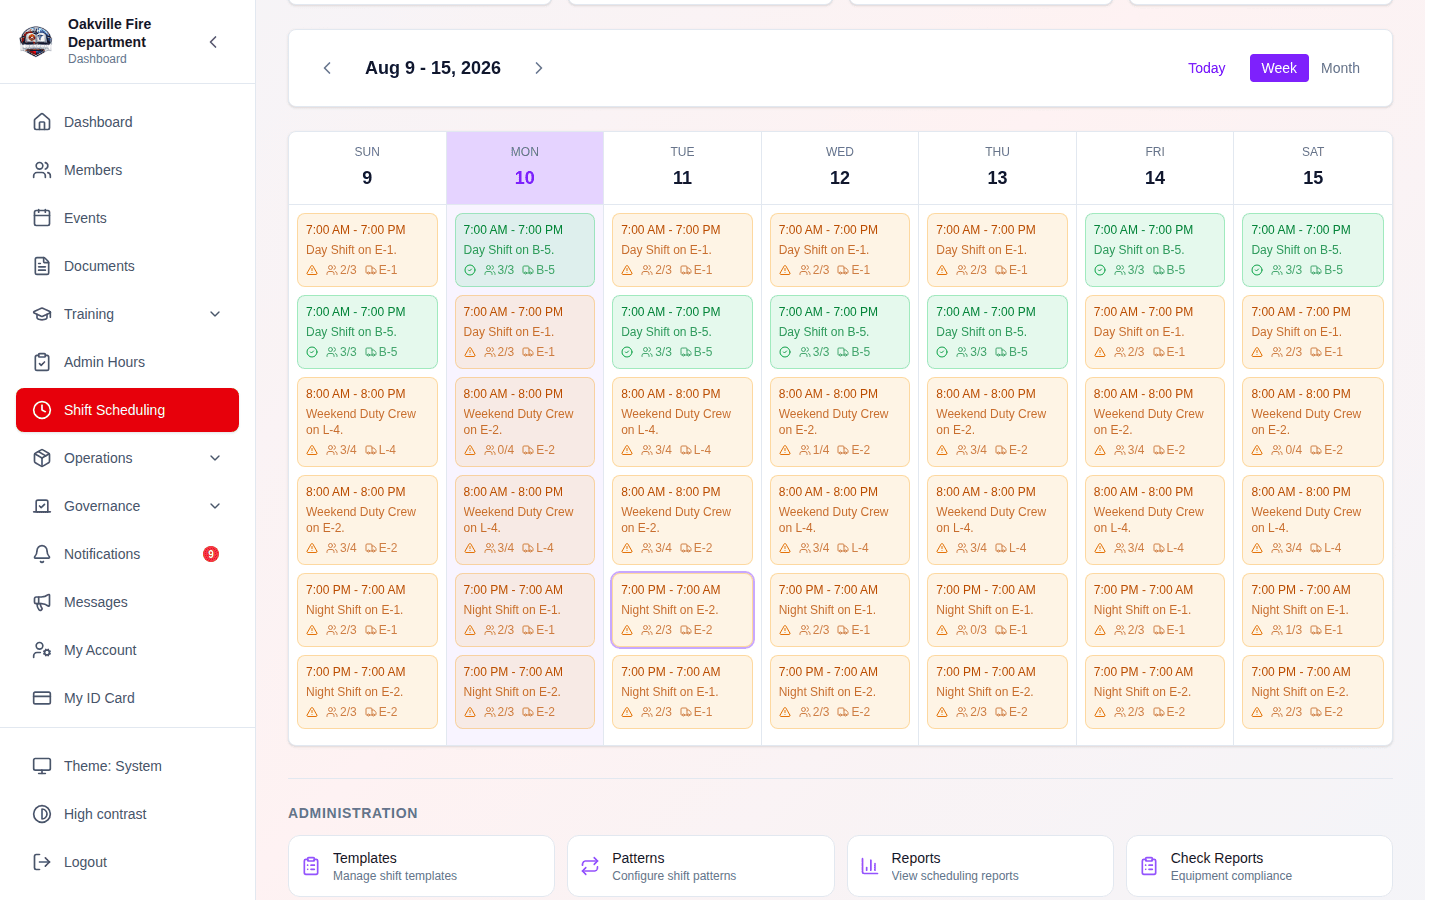
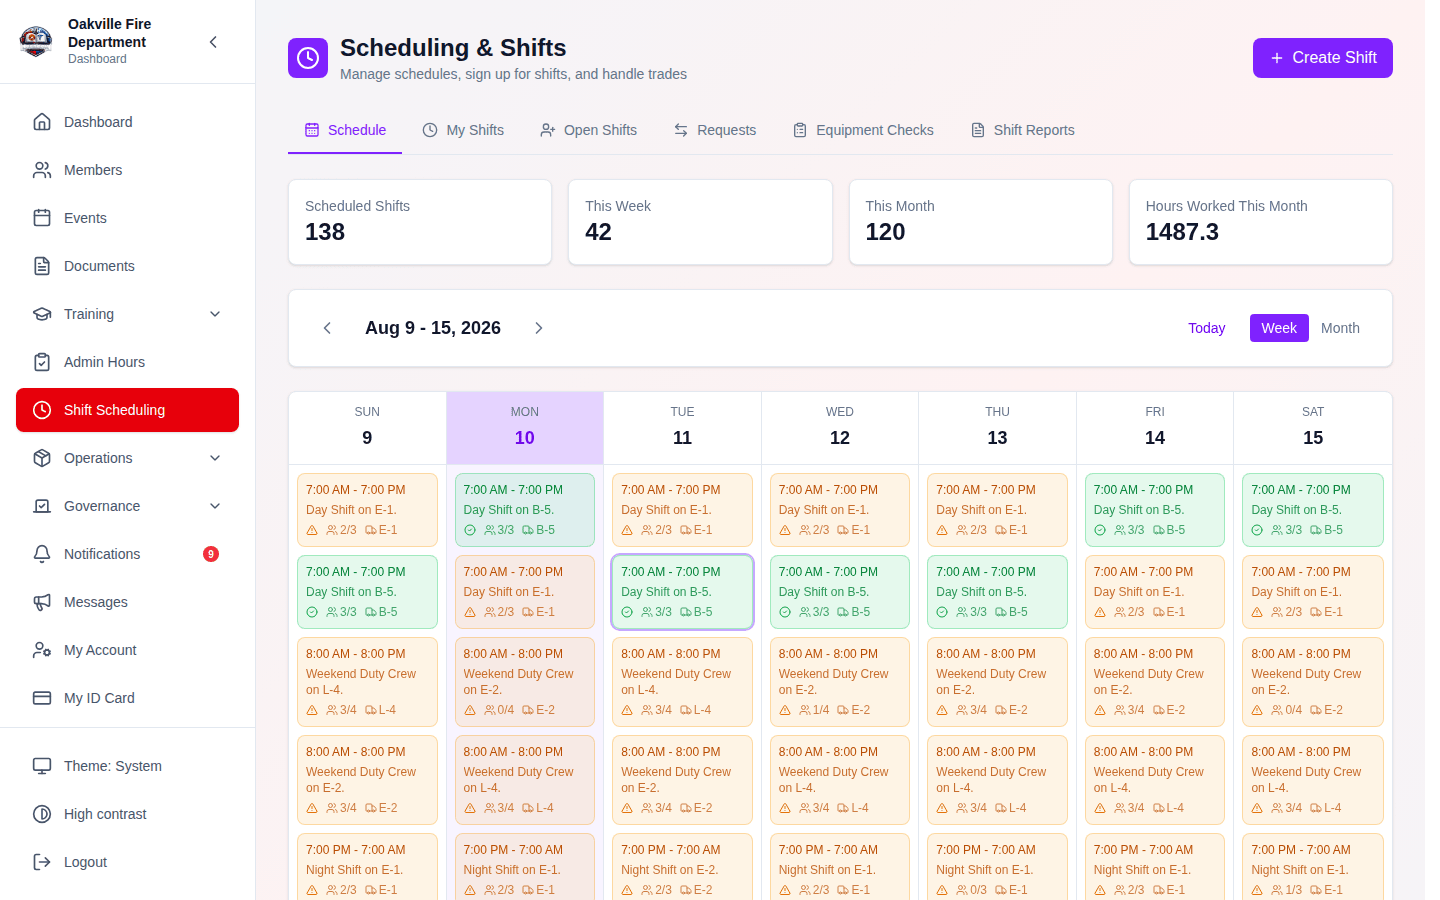
Seed shift check-in/out records; the scheduling header no longer reads 0 hours
Nobody had ever worked a seeded shift, so "Hours Worked This Month" on the
scheduling page read 0 beside a calendar of 120 shifts, and every attendance
and completion screen was empty. The twelve attendance rows that did exist
carried NULL timestamps and no duration — worse than none, since the API
computes duration from the two times, so those rows counted as attendance
while contributing nothing.

Past shifts now have their crew checked in and out, a few minutes either side
of the scheduled times so the durations are not identical to the minute. Only
shifts that have already ended are touched: checking somebody out of a shift
still in progress would be a lie, and the in-progress state is what several
other screenshots are about. The guard is keyed on a *usable* row rather than
any row, so the timestamp-less ones do not mask the gap forever.

161 records, 1,487 hours this month. 03-55-staffing-status-cards is re-taken
with the stat row back in frame — it had been scrolled out specifically to
keep the zero out of shot, and that is no longer necessary.

Claude-Session: https://claude.ai/code/session_01MR3YDBTkhiX8tzyQovuUKc

diff --git a/scripts/screenshots/seed_demo_data.py b/scripts/screenshots/seed_demo_data.py
@@ -1628,12 +1628,75 @@ class Seeder:
                         # slot — neither is worth failing the whole seed over.
                         if exc.code not in (400, 409):
                             raise
+        self._seed_shift_attendance(shifts)
         return {
             "templates": templates,
             "patterns": patterns,
             "apparatus": fleet,
             "shifts": shifts,
         }
+
+    def _seed_shift_attendance(self, shifts: list[dict]) -> None:
+        """Check the crew of past shifts in and out again.
+
+        Nobody had ever worked a seeded shift, so "Hours Worked This Month" on
+        the scheduling page read 0 beside a calendar of 120 shifts, and every
+        attendance and completion screen was empty. The rows the seeder did
+        leave behind carried NULL times and no duration, which is worse than
+        none: the API computes duration from the two timestamps, so a row
+        without them contributes nothing while still counting as attendance.
+
+        Only shifts that have already ended are touched. Checking somebody out
+        of a shift still in progress would be a lie, and the in-progress state
+        is what several other screenshots are about.
+        """
+        now = datetime.now(timezone.utc)
+        for shift in shifts:
+            shift_id = pick(shift, "id")
+            day = str(pick(shift, "shift_date", "shiftDate") or "")
+            if not shift_id or not day or day >= str(TODAY):
+                continue
+            existing = items(
+                self.api.get(f"/scheduling/shifts/{shift_id}/attendance"),
+                "attendance",
+            )
+            # Keyed on a *usable* row, not any row: the pre-existing rows have
+            # no timestamps and would otherwise mask the gap forever.
+            if any(pick(row, "checked_in_at", "checkedInAt") for row in existing):
+                continue
+            start = pick(shift, "start_time", "startTime")
+            end = pick(shift, "end_time", "endTime")
+            if not start or not end:
+                continue
+            started = datetime.fromisoformat(str(start).replace("Z", "+00:00"))
+            ended = datetime.fromisoformat(str(end).replace("Z", "+00:00"))
+            if ended > now:
+                continue
+            crew = items(
+                self.api.get(f"/scheduling/shifts/{shift_id}/assignments"),
+                "assignments",
+            )
+            for index, assignment in enumerate(crew):
+                user_id = pick(assignment, "user_id", "userId")
+                if not user_id:
+                    continue
+                # A few minutes either side of the scheduled times, so the
+                # durations are not all identical to the minute.
+                checked_in = started + timedelta(minutes=index * 3)
+                checked_out = ended - timedelta(minutes=(index % 3) * 5)
+                try:
+                    self.api.post(
+                        f"/scheduling/shifts/{shift_id}/attendance",
+                        {
+                            "user_id": user_id,
+                            "checked_in_at": iso(checked_in),
+                            "checked_out_at": iso(checked_out),
+                        },
+                    )
+                except ApiError as exc:
+                    if exc.code not in (400, 409):
+                        raise
+                    self.blocked.append(f"shift attendance: {exc}")
 
     def _top_up_crew(self, shift: dict, target: int, pool: list[str]) -> int:
         """Add crew to an already-seeded shift until it meets `target`.
